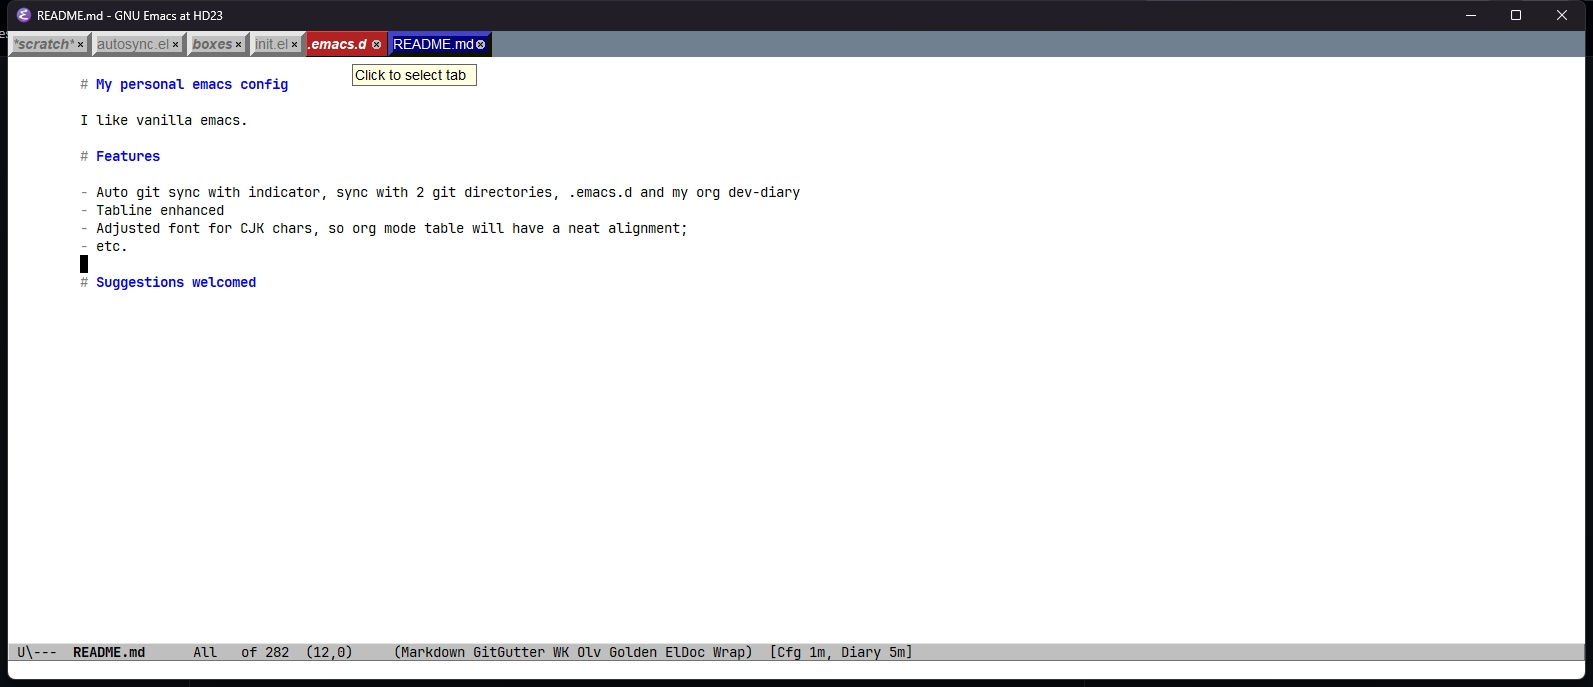
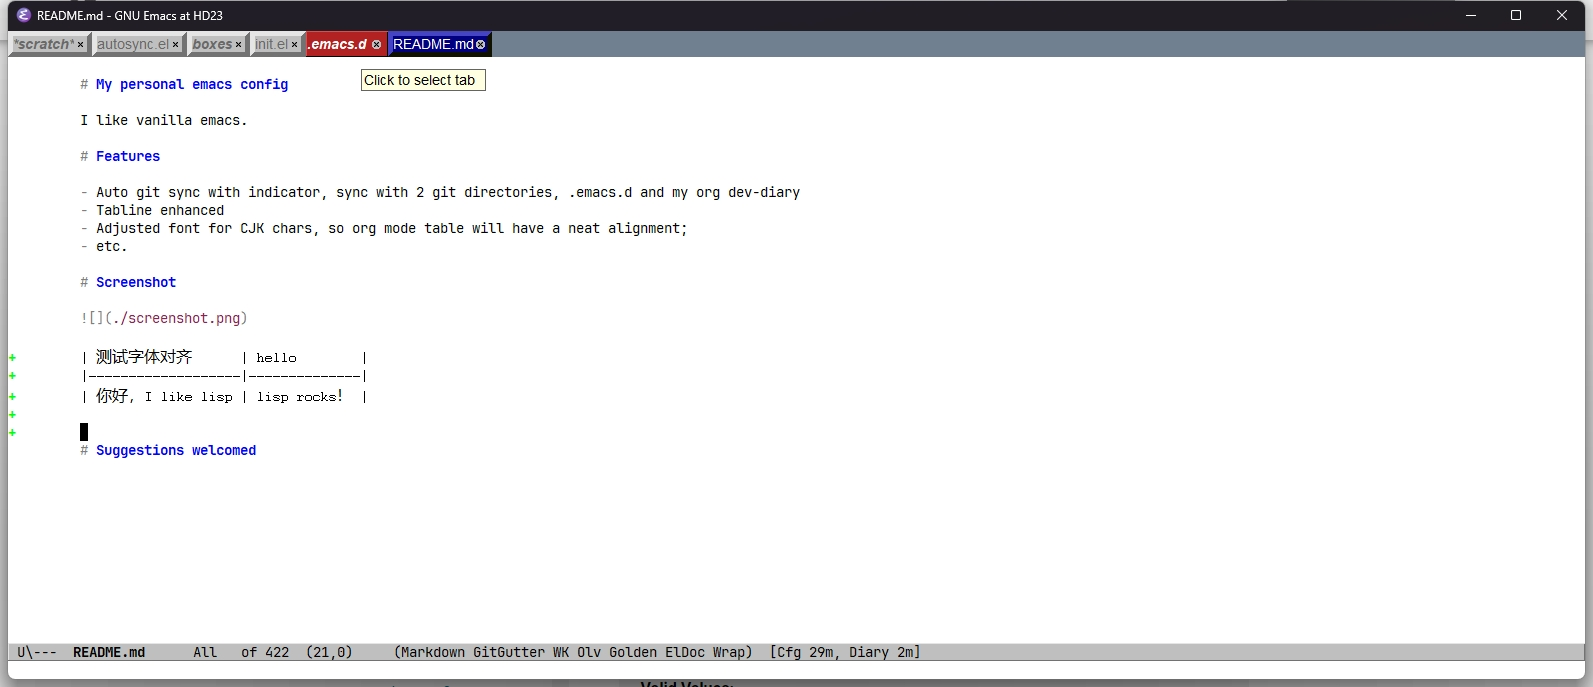
2024-02-28 10:43:48

diff --git a/README.md b/README.md
@@ -14,4 +14,9 @@ I like vanilla emacs.
 
 ![](./screenshot.png)
 
+| 测试字体对齐      | hello        |
+|-------------------|--------------|
+| 你好，I like lisp | lisp rocks！ |
+
+
 # Suggestions welcomed
